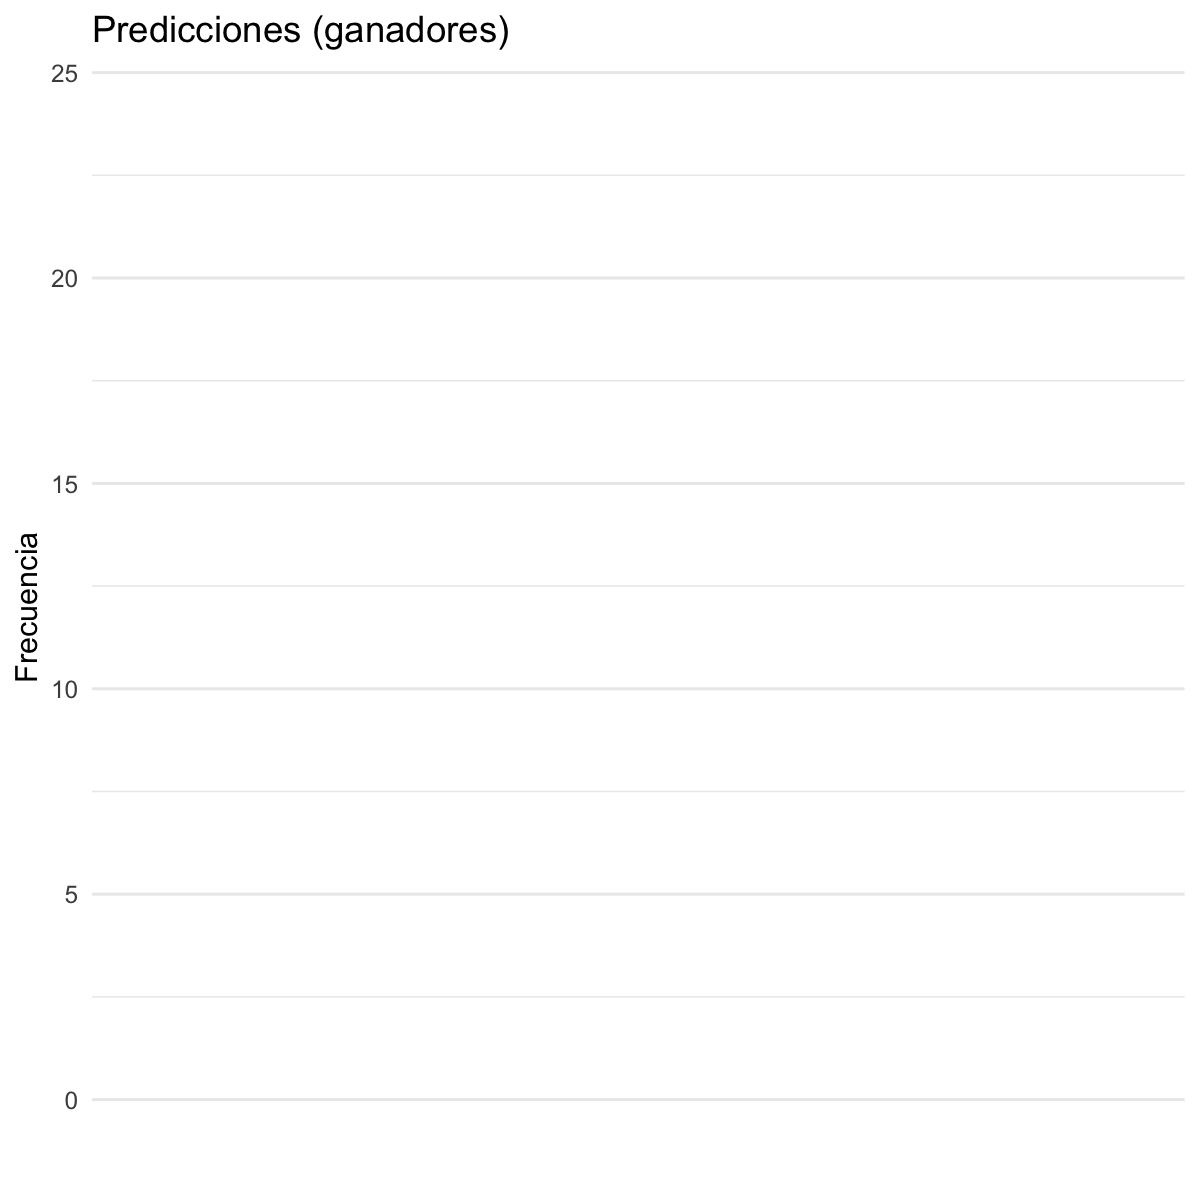
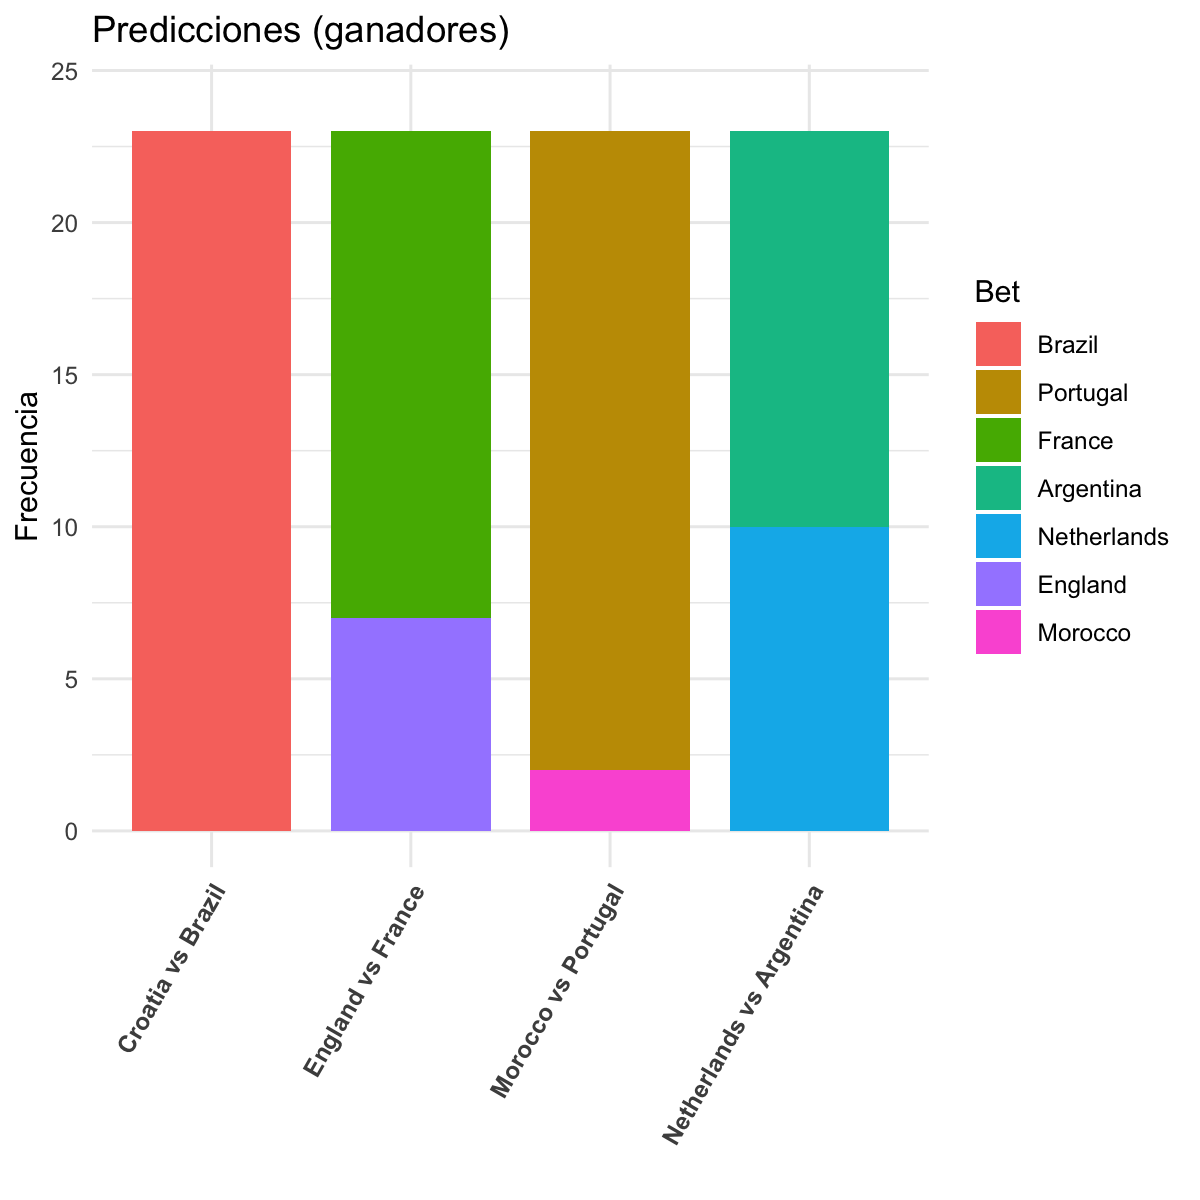
automatic README update

diff --git a/README.md b/README.md
@@ -13,7 +13,7 @@ Este es el repositorio de la quiniela Qatar 2022. Aqui se publicarán las picks 
 
 
 
-Última actualización: Fri  9 Dec 2022 10:33:12 EST.
+Última actualización: Fri  9 Dec 2022 10:44:08 EST.
 
 
 # **Puntuaciones**
@@ -80,7 +80,6 @@ Este es el repositorio de la quiniela Qatar 2022. Aqui se publicarán las picks 
 | numero_participante | Nombre                       | Croatia vs Brazil | Netherlands vs Argentina | Morocco vs Portugal | England vs France |
 | ------------------- | ---------------------------- | ----------------- | ------------------------ | ------------------- | ----------------- |
 | 001                 | Jonathan                     | Brazil            | Netherlands              | Portugal            | France            |
-| 0018                | Eduardo palacios             | Brazil            | Argentina                | Portugal            | France            |
 | 002                 | Poncho                       | Brazil            | Argentina                | Portugal            | France            |
 | 003                 | Habib                        | Brazil            | Argentina                | Portugal            | England           |
 | 004                 | Jalil                        | Brazil            | Argentina                | Portugal            | France            |
@@ -96,6 +95,7 @@ Este es el repositorio de la quiniela Qatar 2022. Aqui se publicarán las picks 
 | 015                 | Dniel Jimenez                | Brazil            | Netherlands              | Portugal            | England           |
 | 016                 | Ernie                        | Brazil            | Argentina                | Portugal            | France            |
 | 017                 | Bobacao                      | Brazil            | Argentina                | Portugal            | France            |
+| 018                 | Eduardo palacios             | Brazil            | Argentina                | Portugal            | France            |
 | 019                 | Diego Angeles                | Brazil            | Argentina                | Morocco             | France            |
 | 020                 | Luis Llamas                  | Brazil            | Netherlands              | Portugal            | England           |
 | 021                 | German jair                  | Brazil            | Netherlands              | Portugal            | France            |
@@ -110,9 +110,31 @@ Este es el repositorio de la quiniela Qatar 2022. Aqui se publicarán las picks 
  ## <u>**Predicción de Marcadores**</u>
  
  
-| numero_participante | Nombre   | Croatia vs Brazil score | Netherlands vs Argentina score | Morocco vs Portugal score | England vs France score |
-| ------------------- | -------- | ----------------------- | ------------------------------ | ------------------------- | ----------------------- |
-| 001                 | Jonathan | 1-3                     | 2-2                            |                           |
+| numero_participante | Nombre                       | Croatia vs Brazil score | Netherlands vs Argentina score | Morocco vs Portugal score | England vs France score |
+| ------------------- | ---------------------------- | ----------------------- | ------------------------------ | ------------------------- | ----------------------- |
+| 001                 | Jonathan                     | 1-3                     | 2-2                            | 1-3                       | 1-1                     |
+| 002                 | Poncho                       | 1-2                     | 2-2                            | 0-2                       | 1-1                     |
+| 003                 | Habib                        | 1-3                     | 1-1                            | 1-2                       | 2-2                     |
+| 004                 | Jalil                        | 1-3                     | 1-2                            | 0-1                       | 2-3                     |
+| 005                 | Isra Torres                  | 3-1                     | 1-1                            | 1-1                       | 2-1                     |
+| 006                 | Juan Carlos Avendaño Aguilar | 1-2                     | 1-2                            | 1-3                       | 2-1                     |
+| 007                 | Claudio                      | 1-3                     | 2-1                            | 0-2                       | 2-3                     |
+| 008                 | Héctor Zepeda               | 0-4                     | 1-2                            | 0-2                       | 1-0                     |
+| 009                 | Luis Temo Marquez            | 1-3                     | 3-2                            | 1-2                       | 2-3                     |
+| 010                 | Fosi                         | 1-3                     | 1-2                            | 1-2                       | 3-2                     |
+| 012                 | Ibrahim T                    | 2-1                     | 1-0                            | 4-1                       | 2-2                     |
+| 013                 | Ruben                        | 1-2                     | 2-1                            | 0-2                       | 2-2                     |
+| 014                 | Valentin                     | 1-3                     | 1-1                            | 1-3                       | 2-4                     |
+| 015                 | Dniel Jimenez                | 1-3                     | 2-1                            | 1-3                       | 3-2                     |
+| 016                 | Ernie                        | 1-3                     | 2-3                            | 2-2                       | 2-2                     |
+| 017                 | Bobacao                      | 2-4                     | 0-0                            | 0-2                       | 2-2                     |
+| 018                 | Eduardo palacios             | 1-3                     | 2-3                            | 1-3                       | 1-2                     |
+| 019                 | Diego Angeles                | 1-3                     | 1-1                            | 3-2                       | 3-0                     |
+| 020                 | Luis Llamas                  | 1-3                     | 2-2                            | 1-2                       | 3-2                     |
+| 021                 | German jair                  | 1-3                     | 2-1                            | 1-3                       | 2-3                     |
+| 022                 | Colin                        | 2-1                     | 2-1                            | 2-1                       | 2-0                     |
+| 023                 | Adam                         | 2-0                     | 2-1                            | 3-0                       | 2-0                     |
+| 024                 | Ahmed Felfel                 | 3-1                     | 0-0                            | 2-1                       | 3-1                     |
 
 ![](media/predicted_scores_KO4.png)
 
